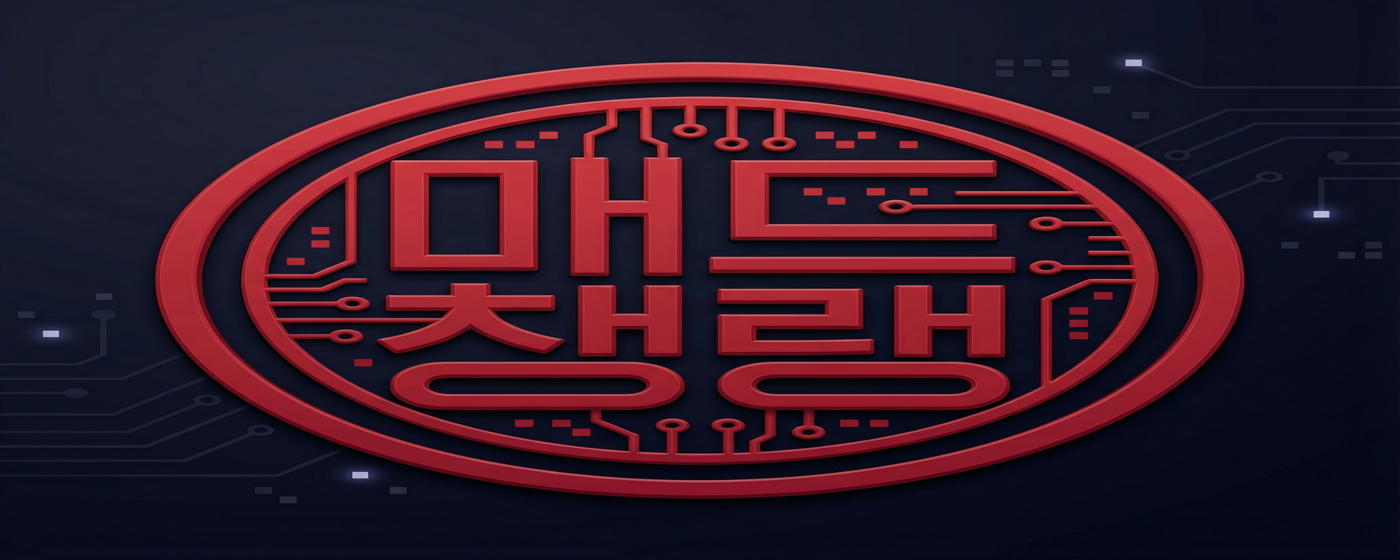
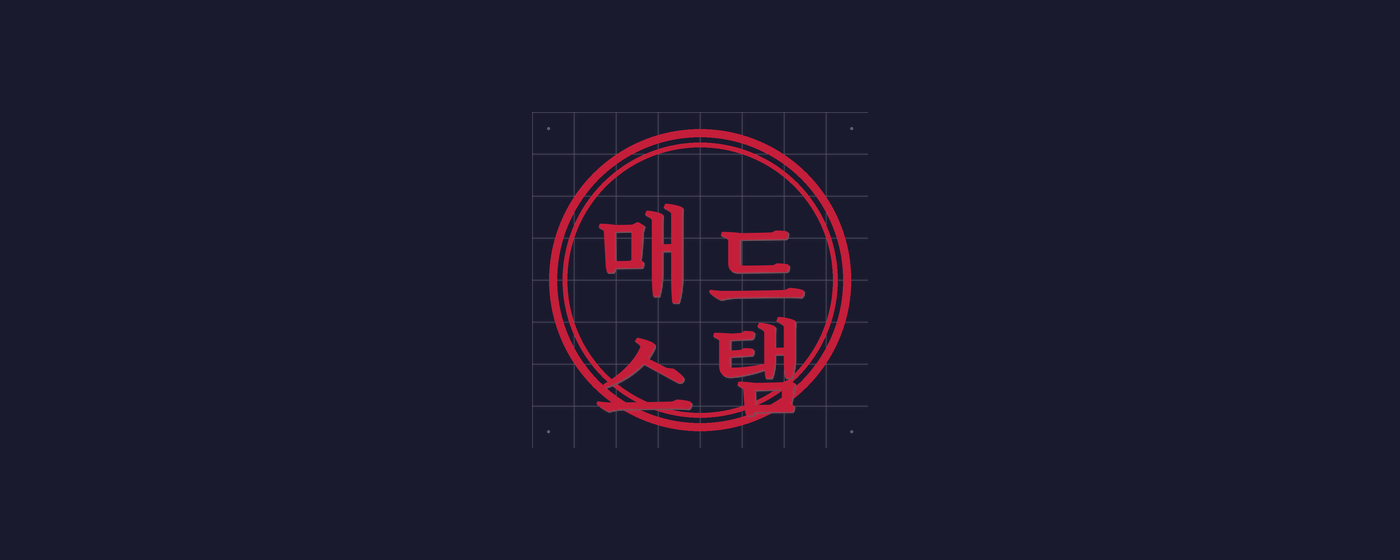
feat: 한글 도장 스타일 아이콘 추가 (Noto Sans Korean 폰트 사용)
- 원형 테두리 안에 4글자 자동 배치 시스템
- 2x2 배열로 글자 균등 배치
- 테두리를 넘지 않는 자동 크기 조절
- Chrome 확장 프로그램용 크기별 아이콘 (16, 32, 48, 128px)
- 웹스토어 프로모션 이미지 생성

diff --git a/scripts/generate_stamp_icon.py b/scripts/generate_stamp_icon.py
@@ -1,0 +1,310 @@
+#!/usr/bin/env python3
+"""
+한국 전통 도장 스타일 아이콘 생성기
+- 원형 테두리 안에 글자 자동 배치
+- 테두리를 넘지 않도록 자동 크기 조절
+- 가로/세로 중심축 기준 정렬
+"""
+
+from PIL import Image, ImageDraw, ImageFont
+import math
+import os
+
+class StampIconGenerator:
+    def __init__(self, size=1024):
+        """
+        Args:
+            size: 이미지 크기 (정사각형)
+        """
+        self.size = size
+        self.center = size // 2
+        
+        # 색상 정의 (전통 도장 스타일)
+        self.bg_color = (26, 26, 46)  # 다크 배경 #1A1A2E
+        self.stamp_color = (196, 30, 58)  # 주홍색 #C41E3A
+        self.accent_color = (220, 50, 70)  # 밝은 주홍색
+        
+        # 테두리 정의 (비율 기반)
+        self.outer_border_ratio = 0.90  # 외곽 테두리 (전체의 90%)
+        self.inner_border_ratio = 0.82  # 내부 테두리 (전체의 82%)
+        self.safe_area_ratio = 0.72     # 안전 영역 (글자 배치 영역)
+        
+        # 폰트 경로 (시스템 폰트 사용)
+        self.font_path = "/usr/share/fonts/opentype/noto/NotoSansCJK-Bold.ttc"
+        self.serif_font_path = "/usr/share/fonts/opentype/noto/NotoSerifCJK-Bold.ttc"
+        
+    def create_base_image(self):
+        """기본 이미지 생성 (다크 배경)"""
+        img = Image.new('RGBA', (self.size, self.size), self.bg_color + (255,))
+        return img
+    
+    def draw_circuit_pattern(self, draw):
+        """디지털/테크 느낌의 회로 패턴 그리기"""
+        # 배경에 미세한 회로 패턴 추가
+        pattern_color = (35, 35, 60, 100)  # 반투명 패턴
+        
+        # 수직/수평 라인
+        for i in range(0, self.size, 64):
+            if i % 128 == 0:
+                draw.line([(i, 0), (i, self.size)], fill=pattern_color, width=1)
+                draw.line([(0, i), (self.size, i)], fill=pattern_color, width=1)
+        
+        # 코너에 회로 노드
+        node_positions = [
+            (50, 50), (self.size-50, 50), 
+            (50, self.size-50), (self.size-50, self.size-50)
+        ]
+        for x, y in node_positions:
+            draw.ellipse([x-4, y-4, x+4, y+4], fill=(60, 60, 100, 150))
+    
+    def draw_borders(self, draw):
+        """원형 테두리 그리기 (외곽 + 내부)"""
+        # 외곽 테두리
+        outer_radius = int(self.size * self.outer_border_ratio / 2)
+        outer_bbox = [
+            self.center - outer_radius, self.center - outer_radius,
+            self.center + outer_radius, self.center + outer_radius
+        ]
+        draw.ellipse(outer_bbox, outline=self.stamp_color, width=int(self.size * 0.025))
+        
+        # 내부 테두리
+        inner_radius = int(self.size * self.inner_border_ratio / 2)
+        inner_bbox = [
+            self.center - inner_radius, self.center - inner_radius,
+            self.center + inner_radius, self.center + inner_radius
+        ]
+        draw.ellipse(inner_bbox, outline=self.stamp_color, width=int(self.size * 0.015))
+        
+        return outer_radius, inner_radius
+    
+    def draw_center_lines(self, draw):
+        """가로/세로 중심축 그리기 (보조선)"""
+        line_color = self.stamp_color + (80,)  # 반투명
+        safe_radius = int(self.size * self.safe_area_ratio / 2)
+        
+        # 가로 중심선
+        draw.line([
+            (self.center - safe_radius, self.center),
+            (self.center + safe_radius, self.center)
+        ], fill=line_color, width=2)
+        
+        # 세로 중심선
+        draw.line([
+            (self.center, self.center - safe_radius),
+            (self.center, self.center + safe_radius)
+        ], fill=line_color, width=2)
+    
+    def calculate_font_size(self, text, num_rows=2):
+        """
+        글자 수에 따라 최적의 폰트 크기 계산
+        테두리를 넘지 않도록 자동 조절
+        """
+        safe_radius = int(self.size * self.safe_area_ratio / 2)
+        safe_diameter = safe_radius * 2
+        
+        # 행당 글자 수
+        chars_per_row = math.ceil(len(text) / num_rows)
+        
+        # 각 글자가 차지할 수 있는 최대 크기
+        max_char_width = safe_diameter / chars_per_row * 0.85
+        max_char_height = safe_diameter / num_rows * 0.85
+        
+        # 더 작은 값 선택 (정사각형 글자 기준)
+        font_size = int(min(max_char_width, max_char_height))
+        
+        return font_size
+    
+    def arrange_text_in_circle(self, text, num_rows=2):
+        """
+        원형 안에 텍스트 배치 좌표 계산
+        4글자: 2x2 배열
+        5글자: 상단 2글자, 하단 3글자 또는 상단 3글자, 하단 2글자
+        """
+        safe_radius = int(self.size * self.safe_area_ratio / 2)
+        
+        positions = []
+        n = len(text)
+        
+        if n == 4:
+            # 2x2 배열
+            font_size = self.calculate_font_size(text, 2)
+            offset = font_size * 0.55
+            
+            positions = [
+                (self.center - offset, self.center - offset),  # 좌상
+                (self.center + offset, self.center - offset),  # 우상
+                (self.center - offset, self.center + offset),  # 좌하
+                (self.center + offset, self.center + offset),  # 우하
+            ]
+            
+        elif n == 5:
+            # 상단 2글자, 하단 3글자
+            font_size = self.calculate_font_size(text, 2)
+            v_offset = font_size * 0.55
+            h_offset_top = font_size * 0.55
+            h_offset_bottom = font_size * 0.75
+            
+            positions = [
+                # 상단 2글자
+                (self.center - h_offset_top, self.center - v_offset),
+                (self.center + h_offset_top, self.center - v_offset),
+                # 하단 3글자
+                (self.center - h_offset_bottom, self.center + v_offset),
+                (self.center, self.center + v_offset),
+                (self.center + h_offset_bottom, self.center + v_offset),
+            ]
+            
+        elif n == 3:
+            # 삼각형 배열
+            font_size = self.calculate_font_size(text, 2)
+            v_offset = font_size * 0.5
+            h_offset = font_size * 0.6
+            
+            positions = [
+                (self.center, self.center - v_offset),  # 상단 중앙
+                (self.center - h_offset, self.center + v_offset),  # 좌하
+                (self.center + h_offset, self.center + v_offset),  # 우하
+            ]
+            
+        elif n == 2:
+            # 가로 배열
+            font_size = self.calculate_font_size(text, 1)
+            h_offset = font_size * 0.55
+            
+            positions = [
+                (self.center - h_offset, self.center),
+                (self.center + h_offset, self.center),
+            ]
+            
+        else:
+            # 기본: 중앙 배치
+            font_size = self.calculate_font_size(text, 1)
+            positions = [(self.center, self.center)]
+        
+        return positions, font_size
+    
+    def draw_text(self, draw, text, use_serif=True):
+        """텍스트 그리기"""
+        positions, font_size = self.arrange_text_in_circle(text)
+        
+        # 폰트 로드
+        font_path = self.serif_font_path if use_serif else self.font_path
+        try:
+            font = ImageFont.truetype(font_path, font_size)
+        except:
+            # 대체 폰트
+            font = ImageFont.truetype("/usr/share/fonts/opentype/noto/NotoSerifCJK-Bold.ttc", font_size)
+        
+        # 각 글자 그리기
+        for i, char in enumerate(text):
+            if i < len(positions):
+                x, y = positions[i]
+                
+                # 글자 크기 측정
+                bbox = draw.textbbox((0, 0), char, font=font)
+                char_width = bbox[2] - bbox[0]
+                char_height = bbox[3] - bbox[1]
+                
+                # 중앙 정렬
+                draw_x = x - char_width / 2
+                draw_y = y - char_height / 2
+                
+                # 글자 그리기 (약간의 그림자 효과)
+                shadow_offset = 3
+                draw.text((draw_x + shadow_offset, draw_y + shadow_offset), char, 
+                         font=font, fill=(100, 20, 30, 150))
+                draw.text((draw_x, draw_y), char, font=font, fill=self.stamp_color)
+    
+    def add_stamp_texture(self, img):
+        """도장 질감 효과 추가 (약간의 불규칙성)"""
+        import random
+        
+        pixels = img.load()
+        width, height = img.size
+        
+        # 랜덤 노이즈로 도장 느낌 추가
+        for _ in range(int(width * height * 0.001)):
+            x = random.randint(0, width - 1)
+            y = random.randint(0, height - 1)
+            
+            # 중심에서의 거리 계산
+            dist = math.sqrt((x - self.center)**2 + (y - self.center)**2)
+            max_dist = self.size * self.outer_border_ratio / 2
+            
+            if dist < max_dist:
+                r, g, b, a = pixels[x, y]
+                if r > 100:  # 빨간색 영역에만 적용
+                    # 약간의 밝기 변화
+                    variation = random.randint(-20, 20)
+                    new_r = max(0, min(255, r + variation))
+                    new_g = max(0, min(255, g + variation // 2))
+                    new_b = max(0, min(255, b + variation // 2))
+                    pixels[x, y] = (new_r, new_g, new_b, a)
+        
+        return img
+    
+    def generate(self, text, output_path, add_texture=True, show_guides=False):
+        """
+        도장 아이콘 생성
+        
+        Args:
+            text: 도장에 새길 텍스트 (2-5글자 권장)
+            output_path: 저장 경로
+            add_texture: 도장 질감 효과 추가 여부
+            show_guides: 가이드라인 표시 여부
+        """
+        # 기본 이미지 생성
+        img = self.create_base_image()
+        draw = ImageDraw.Draw(img, 'RGBA')
+        
+        # 회로 패턴 (배경)
+        self.draw_circuit_pattern(draw)
+        
+        # 테두리 그리기
+        self.draw_borders(draw)
+        
+        # 가이드라인 (디버그용)
+        if show_guides:
+            self.draw_center_lines(draw)
+        
+        # 텍스트 그리기
+        self.draw_text(draw, text)
+        
+        # 질감 효과
+        if add_texture:
+            img = self.add_stamp_texture(img)
+        
+        # 저장
+        img.save(output_path, 'PNG')
+        print(f"Generated: {output_path}")
+        
+        return img
+
+
+def main():
+    generator = StampIconGenerator(size=1024)
+    
+    output_dir = "/home/ubuntu/madstamp-automation/chrome-extension/assets"
+    os.makedirs(output_dir, exist_ok=True)
+    
+    # 다양한 텍스트로 아이콘 생성
+    texts = [
+        "매드",      # 2글자
+        "스탬프",    # 3글자
+        "매드스탬",  # 4글자
+        "매드스탬프", # 5글자
+    ]
+    
+    for text in texts:
+        output_path = f"{output_dir}/icon-stamp-{len(text)}char.png"
+        generator.generate(text, output_path, add_texture=True, show_guides=False)
+    
+    # 최종 아이콘 (4글자 버전을 메인으로)
+    main_icon_path = f"{output_dir}/icon-stamp-main.png"
+    generator.generate("매드스탬", main_icon_path, add_texture=True, show_guides=False)
+    
+    print("\n모든 아이콘 생성 완료!")
+
+
+if __name__ == "__main__":
+    main()
